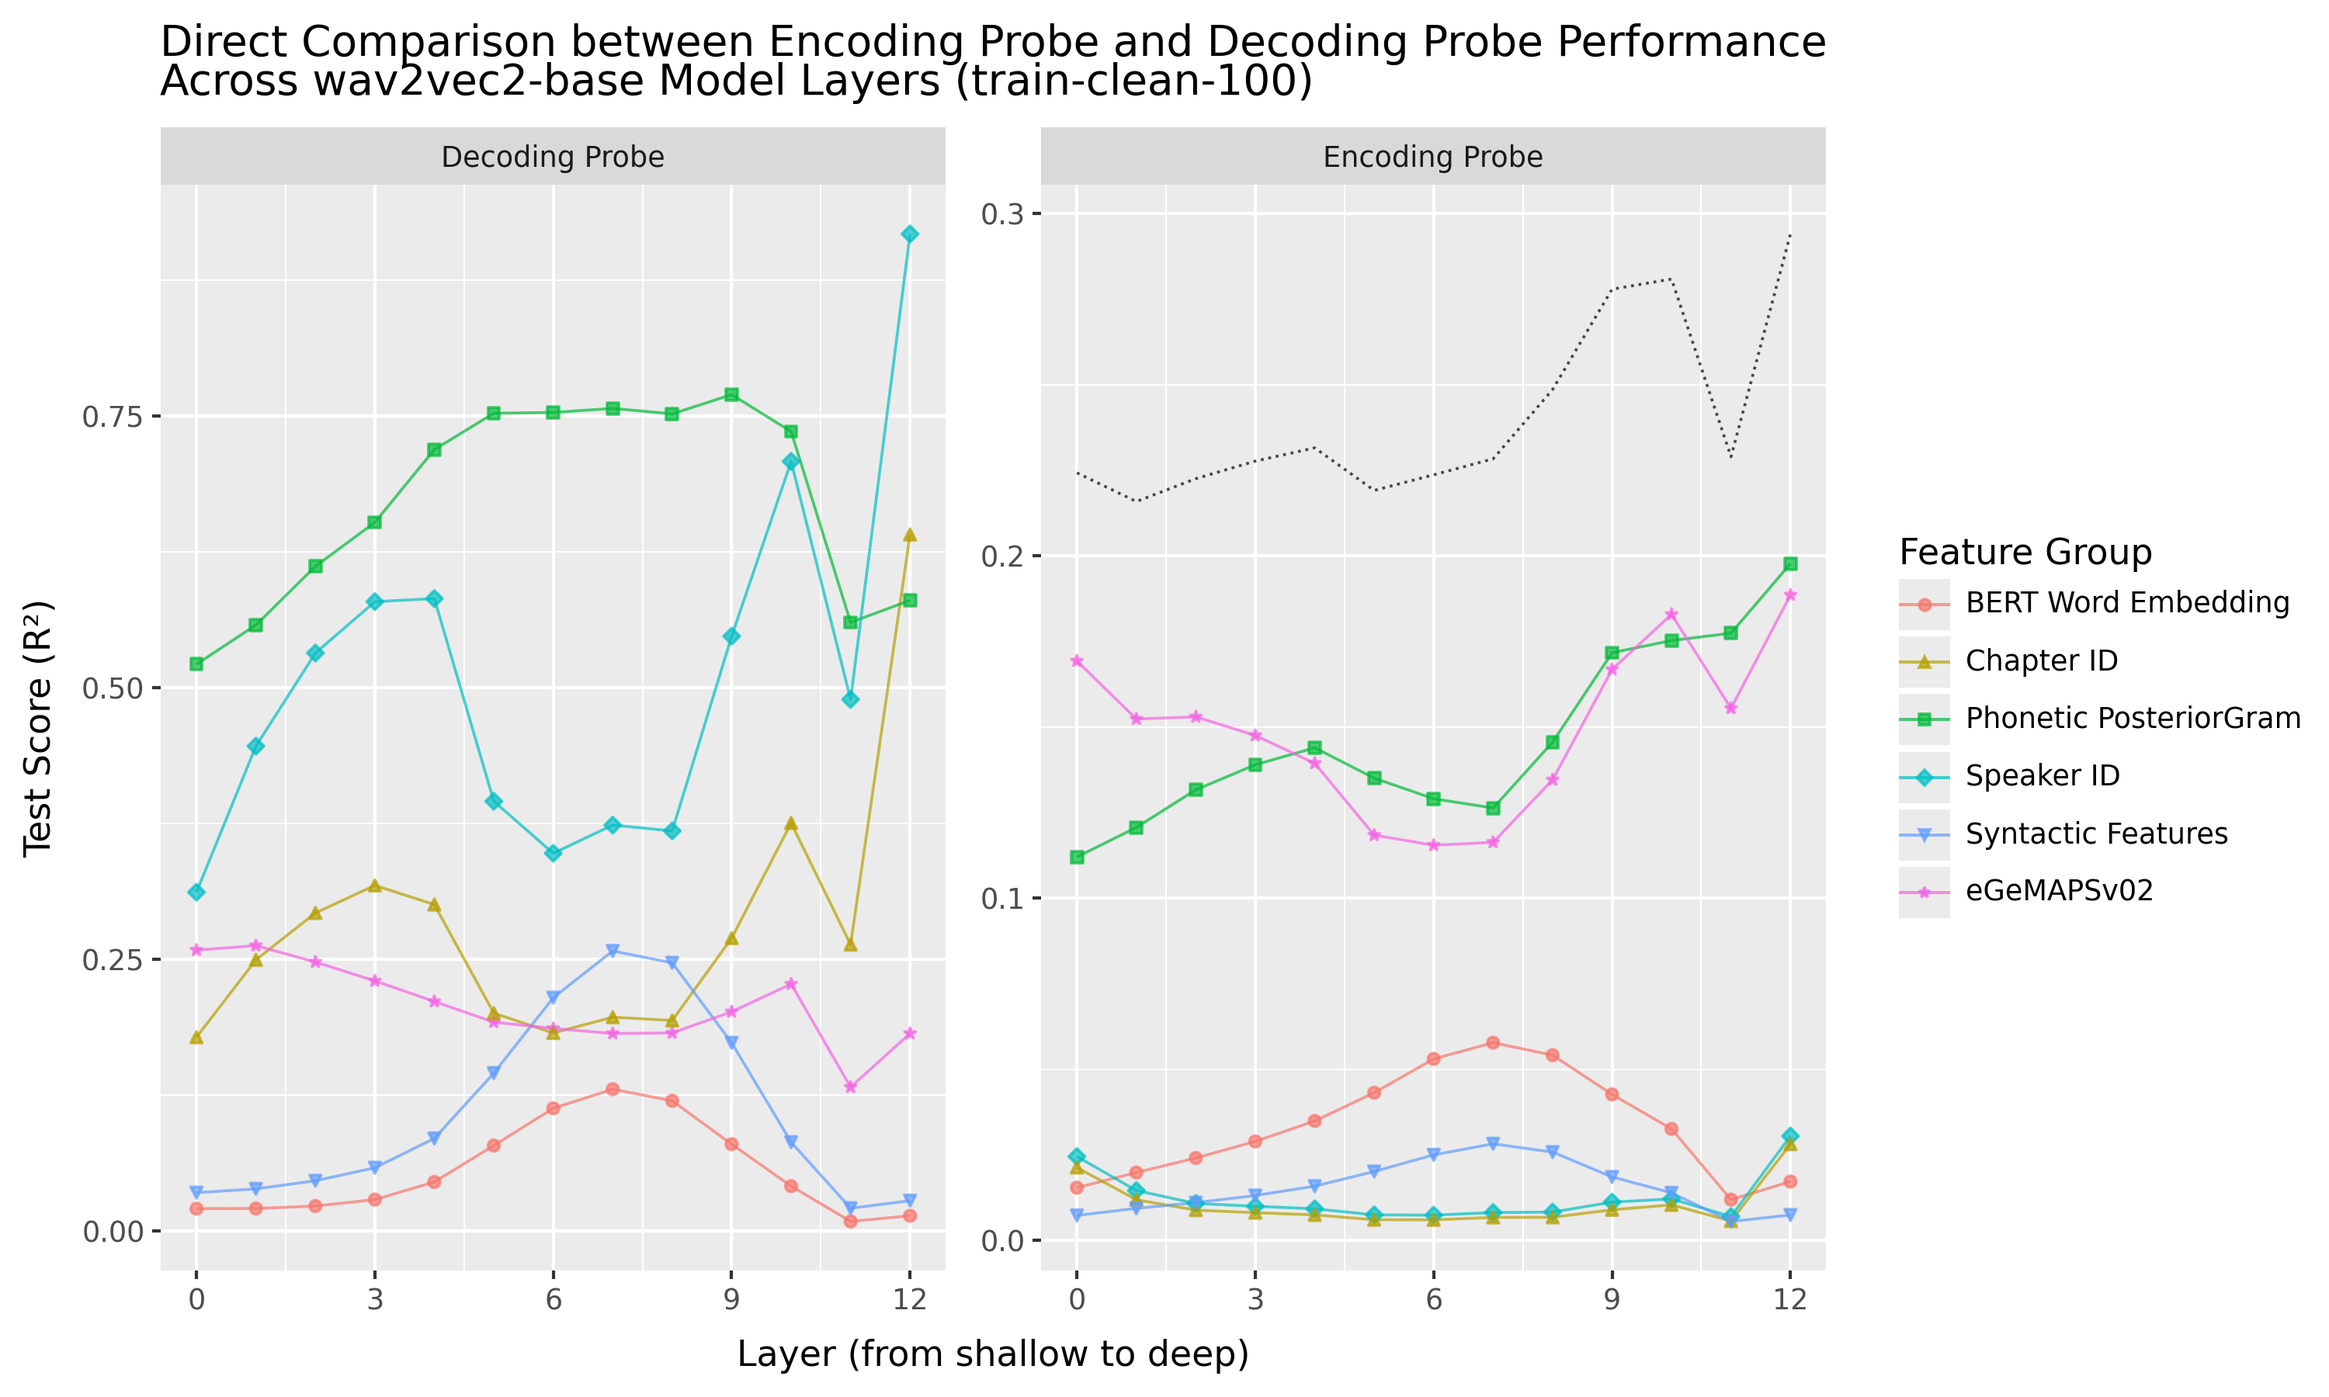
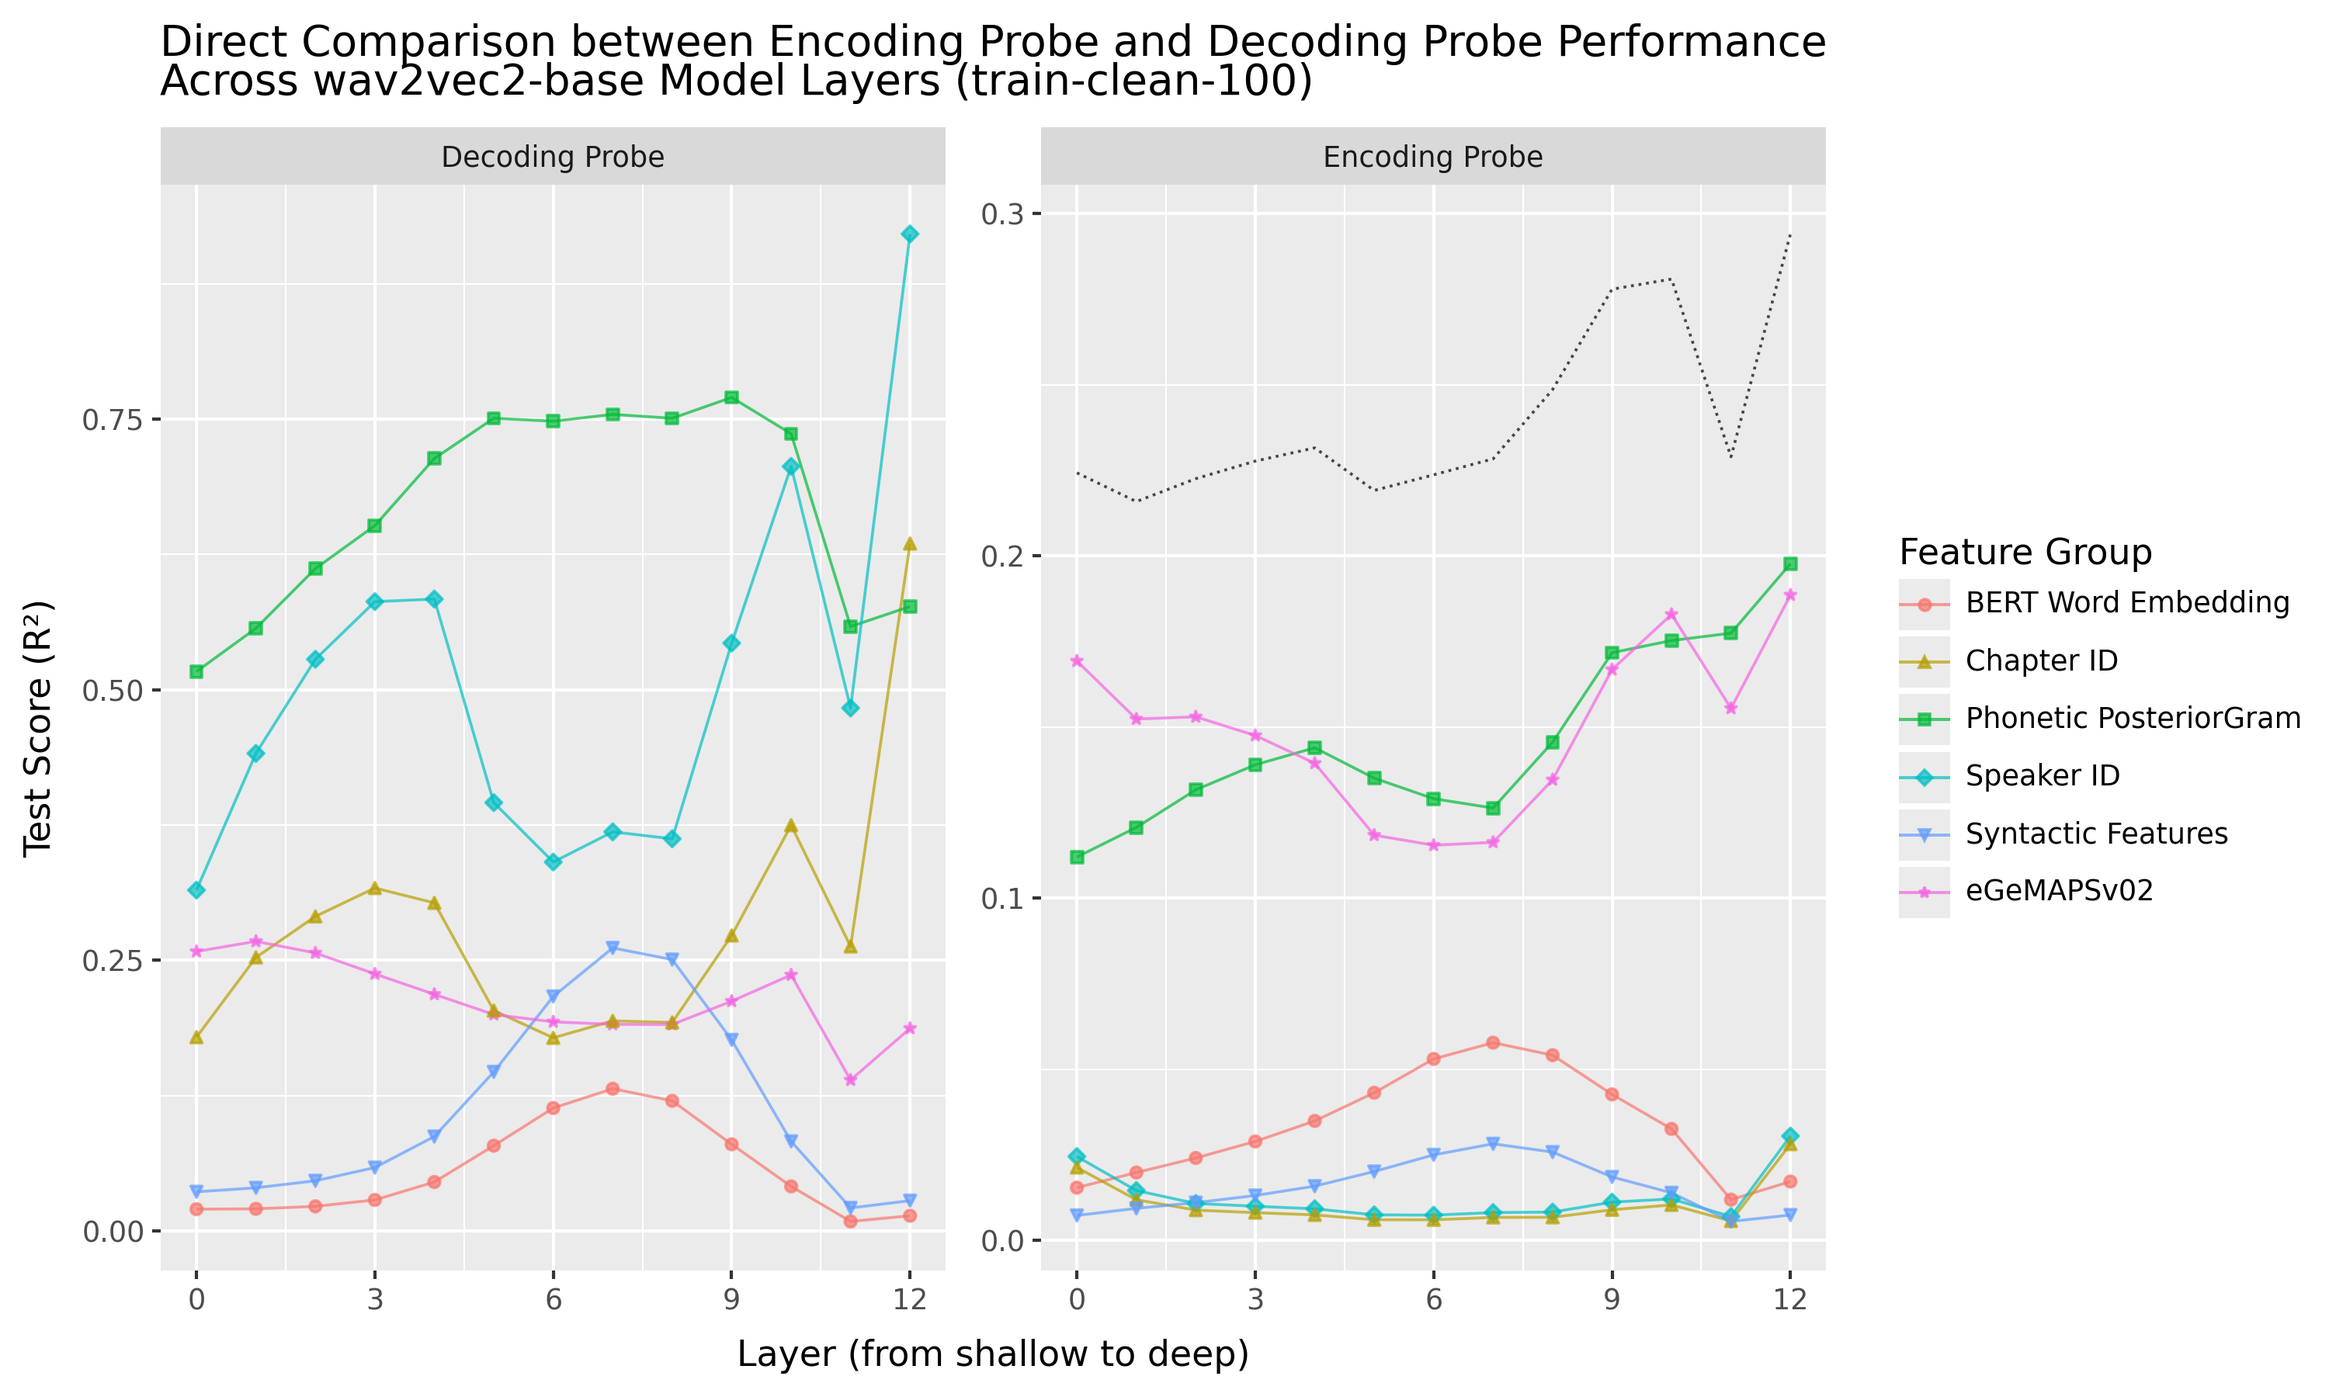
update figures and numbers

diff --git a/src/target_experiment_syntax_lexical.py b/src/target_experiment_syntax_lexical.py
@@ -117,7 +117,7 @@ def run_probe(
     modelname,
     estimator,
     param_grid,
-    additive=False,
+    bottom_up=False,
 ):
     results = []
 
@@ -130,7 +130,7 @@ def run_probe(
         logger.info(
             f"Running target experiment with feature set configuration: {config_name}..."
         )
-        if additive:
+        if bottom_up:
             mask_array = np.zeros(feature_sets.shape[1], dtype=bool)
         else:
             mask_array = np.ones(feature_sets.shape[1], dtype=bool)
@@ -140,7 +140,7 @@ def run_probe(
                 int(section_shapes[feature_idx][0]),
                 int(section_shapes[feature_idx][1]),
             )
-            if additive:
+            if bottom_up:
                 mask_array[start_idx:end_idx] = True
             else:
                 mask_array[start_idx:end_idx] = False
@@ -212,6 +212,7 @@ def main():
     normalize_features = args.normalize_features
     overwrite = args.overwrite
     probe_name = args.probe_name
+    bottom_up = True
 
     # 1. We load the data for the experiment
     logger.info("Loading data for target experiment...")
@@ -316,11 +317,15 @@ def main():
             modelname=modelname,
             estimator=estimator,
             param_grid=param_grid,
-            additive=False,
+            bottom_up=bottom_up,
         )
         results.update({name: r_results})
 
         # Save intermediate results after each r
+        if bottom_up:
+            intermediate_savepath = intermediate_savepath.replace(
+                ".pkl", "_bottom_up.pkl"
+            )
         with open(intermediate_savepath, "wb") as f:
             pickle.dump(r_results, f)
         logger.info(f"Intermediate results for {name} saved to {intermediate_savepath}")
@@ -357,17 +362,36 @@ def plot_existing_results(modelname, librispeech_split, results):
     return plot
 
 
-def plot_results_split(librispeech_split, modelname, r=3):
+def plot_results_split(librispeech_split, modelname, r=3, bottom_up=False):
     # Split the big plot into 2x3 grid and use the individual feature names as the header and show the results that has that individual
+    results_file = f"{RESULTS_ROOT}/target_experiment_syntax_lexical/{librispeech_split}_{modelname}_intermediate_r-{r}_results.pkl"
+    baseline_file = f"{RESULTS_ROOT}/target_experiment_syntax_lexical/{librispeech_split}_{modelname}_baseline_results.pkl"
+    if bottom_up:
+        results_file = results_file.replace(".pkl", "_bottom_up.pkl")
+        baseline_file = baseline_file.replace(".pkl", "_bottom_up.pkl")
+        figure_path_all = results_file.replace(".pkl", "_bottom_up.png")
+        figure_path_lexical = results_file.replace(".pkl", "_bottom_up_lexical.png")
+    else:
+        figure_path_all = results_file.replace(".pkl", ".png")
+        figure_path_lexical = results_file.replace(".pkl", "_lexical.png")
+    figure_path_all = figure_path_all.replace(
+        f"{RESULTS_ROOT}/target_experiment_syntax_lexical/",
+        f"{RESULTS_ROOT}/target_experiment_syntax_lexical/figures/",
+    )
+    figure_path_lexical = figure_path_lexical.replace(
+        f"{RESULTS_ROOT}/target_experiment_syntax_lexical/",
+        f"{RESULTS_ROOT}/target_experiment_syntax_lexical/figures/",
+    )
+    os.makedirs(os.path.dirname(figure_path_all), exist_ok=True)
     with open(
-        f"/home/gshen/work_dir/unprobe/results/target_experiment_syntax_lexical/{librispeech_split}_{modelname}_intermediate_r-{r}_results.pkl",
+        results_file,
         "rb",
     ) as f:
         r_results = pickle.load(f)
 
     # Load baseline results
     with open(
-        f"/home/gshen/work_dir/unprobe/results/target_experiment_syntax_lexical/{librispeech_split}_{modelname}_baseline_results.pkl",
+        baseline_file,
         "rb",
     ) as f:
         baseline_results = pickle.load(f)
@@ -389,6 +413,27 @@ def plot_results_split(librispeech_split, modelname, r=3):
             ["all_features", "no_syntax_no_lexical", "no_lexical"]
         )
     ].reset_index(drop=True)
+    # Rename config names for better plotting labels
+    rename_config_name = {
+        "all_features": "Topline -- All Features",
+        "no_syntax_no_lexical": "Syntax & Lexical Features",
+        "no_syntax": "Syntax Features",
+        "no_lexical": "Lexical Features",
+    }
+
+    # Keep the config names not in the rename_config_name as is
+    results_df["config_name"] = results_df["config_name"].apply(
+        lambda x: rename_config_name.get(x, x)
+    )
+    baseline_df["config_name"] = baseline_df["config_name"].apply(
+        lambda x: rename_config_name.get(x, x)
+    )
+
+    # We can remove the topline value from bottom up results since that's not a valid comparison
+    if bottom_up:
+        baseline_df = baseline_df[
+            baseline_df["config_name"] != "Topline -- All Features"
+        ]
 
     import matplotlib.pyplot as plt
 
@@ -401,40 +446,51 @@ def plot_results_split(librispeech_split, modelname, r=3):
     }
     # GIve the baseline lines with special shapes
     markers_mapping = {
-        "all_features": "s",
-        "no_syntax_no_lexical": "X",
-        "no_syntax": "o",
-        "no_lexical": "d",
+        "Topline -- All Features": "s",
+        "Syntax & Lexical Features": "X",
+        "Syntax Features": "o",
+        "Lexical Features": "d",
     }
 
-    # Setup grid
-    plt.figure(figsize=(20, 30))
-    for i, panel_name in enumerate(panels_names):
-        plt.subplot(3, 2, i + 1)
-        subset_df = results_df[
-            (results_df["config_name"].str.contains(panel_name))
-        ].reset_index(drop=True)
-        # Add topline to each subplot
-        subset_df = pd.concat([baseline_df, subset_df], ignore_index=True)
-        for config_name, group in subset_df.groupby("config_name"):
-            color = color_mapping.get(
-                config_name, "#000000"
-            )  # Default to black if not found
-            marker = markers_mapping.get(config_name, "o")  # type: ignore
-            plt.plot(
-                group["layer"],
-                group["test_score"],
-                marker=marker,
-                label=config_name,
-                color=color,
-            )
-        plt.title(f"Removal of {panel_name} + {r - 1} feature")
-        plt.xlabel("Layer")
-        plt.ylabel("Test R² Score")
-        plt.legend()
-    plt.tight_layout()
-    plt.show()
+    # # Setup grid
+    # plt.figure(figsize=(20, 30))
+    # for i, panel_name in enumerate(panels_names):
+    #     plt.subplot(3, 2, i + 1)
+    #     subset_df = results_df[
+    #         (results_df["config_name"].str.contains(panel_name))
+    #     ].reset_index(drop=True)
+    #     # Add topline to each subplot
+    #     subset_df = pd.concat([baseline_df, subset_df], ignore_index=True)
+    #     for config_name, group in subset_df.groupby("config_name"):
+    #         color = color_mapping.get(
+    #             config_name, "#000000"
+    #         )  # Default to black if not found
+    #         marker = markers_mapping.get(config_name, "o")  # type: ignore
+    #         plt.plot(
+    #             group["layer"],
+    #             group["test_score"],
+    #             marker=marker,
+    #             label=config_name,
+    #             color=color,
+    #         )
+    #     if bottom_up:
+    #         title = f"Bottom-Up Addition of {panel_name} + {r - 1} feature"
+    #     else:
+    #         title = f"Top-Down Removal of {panel_name} + {r - 1} feature"
+    #     plt.title(title)
+    #     plt.xlabel("Layer")
+    #     plt.ylabel("Test R² Score")
+    #     plt.legend()
+    # plt.tight_layout()
+    # # plt.show()
 
+    # plt.savefig(figure_path_all, dpi=300)
+    # # Clear the figure to avoid overlap
+    # plt.clf()
+    # logger.info(f"Saved figure to {figure_path_all}")
+
+    if r == 1:
+        return
     # Make a plot specifically focused on removals involving lexical features
     plt.figure(figsize=(10, 8))
     subset_df = results_df[
@@ -453,12 +509,123 @@ def plot_results_split(librispeech_split, modelname, r=3):
             label=config_name,
             color=color,
         )
-    plt.title(f"Removals Involving Lexical Features + {r - 1} Feature(s)")
+    # Set y-axis limits to focus on the relevant range
+    plt.ylim(0, 0.4)
+    if bottom_up:
+        plt.title(f"Additions Involving Lexical Features + {r - 1} Feature(s)")
+    else:
+        plt.title(f"Removals Involving Lexical Features + {r - 1} Feature(s)")
     plt.xlabel("Layer")
     plt.ylabel("Test R² Score")
     plt.legend()
     plt.tight_layout()
-    plt.show()
+    # plt.show()
+    plt.savefig(figure_path_lexical, dpi=300)
+    logger.info(f"Saved figure to {figure_path_lexical}")
+    plt.clf()
+
+
+def save_figs_results_split():
+    for bottom_up in (True, False):
+        for r in range(1, 5):
+            for modelname in ["wav2vec2-base", "bert-base-uncased"]:
+                plot_results_split(
+                    "train-clean-100", modelname, r=r, bottom_up=bottom_up
+                )
+    bottom_up = True
+    librispeech_split = "train-clean-100"
+    modelname = "wav2vec2-base"
+    r = 3
+
+
+def check_lexical_information():
+    """Use the lexical information to predict syntactic information directly one-by-one and save results to a csv file"""
+    librispeech_split = "train-clean-100"
+    modelname = "wav2vec2-base"
+    select_layers = None
+    normalize_features = True
+    overwrite = False
+
+    # 1. We load the data for the experiment
+    logger.info("Loading data for target experiment...")
+    feature_sets, _, _, data_shape = load_data(
+        librispeech_split=librispeech_split,
+        modelname=modelname,
+        seq_sampling="random_frames",
+        select_layers=select_layers,
+        overwrite=overwrite,
+        reduce_dnn_word_embedding=True,
+        one_hot_encode_syntax=False,
+        one_hot_encode_syntax_separate=False,
+        one_hot_encode_metadata=True,
+        argmax_ppg=False,
+        normalize_features=normalize_features,
+    )
+    syntax_feature_idx = {
+        "POS": 0,
+        "Dependency_Label": 1,
+        "Constituent_Label": 2,
+        "Tree_Depth": 3,
+        # "Tree_Depth_Normed": 4,
+        "Word_Position": 5,
+        # "Word_Position_Normed": 6,
+    }
+
+    section_shapes = get_section_shapes(data_shape)
+
+    lexical_information = feature_sets[
+        :, int(section_shapes[3, 0]) : int(section_shapes[3, 1])
+    ]
+
+    syntax_features = feature_sets[
+        :, int(section_shapes[1, 0]) : int(section_shapes[1, 1])
+    ]
+
+    results = []
+
+    for syntax_feature_name, idx in tqdm(
+        syntax_feature_idx.items(), desc="Syntax Features", position=0
+    ):
+        syntax_feature = syntax_features[:, idx]
+
+        # Turn syntax_feature into class labels
+        syntax_feature = syntax_feature.astype(int)
+
+        estimator, param_grid = pick_probe(
+            probe_name="ridge_classifier"
+        )  # Use classifier for syntax features
+        X_train, X_test, y_train, y_test = train_test_split(
+            lexical_information,
+            syntax_feature,
+            test_size=0.2,
+            random_state=42,
+        )
+        GS = GridSearchCV(
+            estimator,
+            param_grid,
+            cv=5,
+            n_jobs=-1,
+            verbose=0,
+        )
+        GS.fit(X_train, y_train)
+        train_score = GS.score(X_train, y_train)
+        test_score = GS.score(X_test, y_test)
+
+        results.append(
+            {
+                "syntax_feature": syntax_feature_name,
+                "train_score": train_score,
+                "test_score": test_score,
+                "best_params": GS.best_params_,
+            }
+        )
+    results_df = pd.DataFrame(results)
+    results_savepath = os.path.join(
+        RESULTS_ROOT,
+        "word_embedding_to_syntax_results.csv",
+    )
+    results_df.to_csv(results_savepath, index=False)
+    logger.info(f"Lexical to syntax results saved to {results_savepath}")
 
 
 if __name__ == "__main__":

diff --git a/src/plotting_results.py b/src/plotting_results.py
@@ -220,13 +220,13 @@ def load_dimreduction_files(results_dir: str):
             data=subset_df,
         )
         # Add the baselines with distinct linetypes and colors for clarity
-        + p9.geom_line(
-            p9.aes(x=x_var, y=y_var),
-            alpha=0.7,
-            data=random_baseline,
-            color="black",
-            linetype="dashed",
-        )
+        # + p9.geom_line(
+        #     p9.aes(x=x_var, y=y_var),
+        #     alpha=0.7,
+        #     data=random_baseline,
+        #     color="black",
+        #     linetype="dashed",
+        # )
         + p9.geom_line(
             p9.aes(
                 x=x_var,
@@ -257,7 +257,6 @@ def load_dimreduction_files(results_dir: str):
 
 caption = """\
 Baselines:
-- Black dashed line: Random Baseline (random_baseline)
 - Black dotted line: All Feature Baseline (all_feat_baseline)
 All feature baseline is the best case results with all features intact. The feature group manipulations should be compared against these baselines.
 """
@@ -303,13 +302,13 @@ def plot_results(
             data=subset_df,
         )
         # Add the baselines with distinct linetypes and colors for clarity
-        + p9.geom_line(
-            p9.aes(x="norm_layer", y="test_score"),
-            alpha=0.7,
-            data=random_baseline,
-            color="black",
-            linetype="dashed",
-        )
+        # + p9.geom_line(
+        #     p9.aes(x="norm_layer", y="test_score"),
+        #     alpha=0.7,
+        #     data=random_baseline,
+        #     color="black",
+        #     linetype="dashed",
+        # )
         + p9.geom_line(
             p9.aes(
                 x="norm_layer",
@@ -447,13 +446,13 @@ def plot_all_results(all_results_df: pd.DataFrame, save=False) -> None:
             data=subset_df,
         )
         # Add the baselines with distinct linetypes and colors for clarity
-        + p9.geom_line(
-            p9.aes(x="norm_layer", y="test_score"),
-            alpha=0.7,
-            data=random_baseline,
-            color="black",
-            linetype="dashed",
-        )
+        # + p9.geom_line(
+        #     p9.aes(x="norm_layer", y="test_score"),
+        #     alpha=0.7,
+        #     data=random_baseline,
+        #     color="black",
+        #     linetype="dashed",
+        # )
         + p9.geom_line(
             p9.aes(
                 x="norm_layer",
